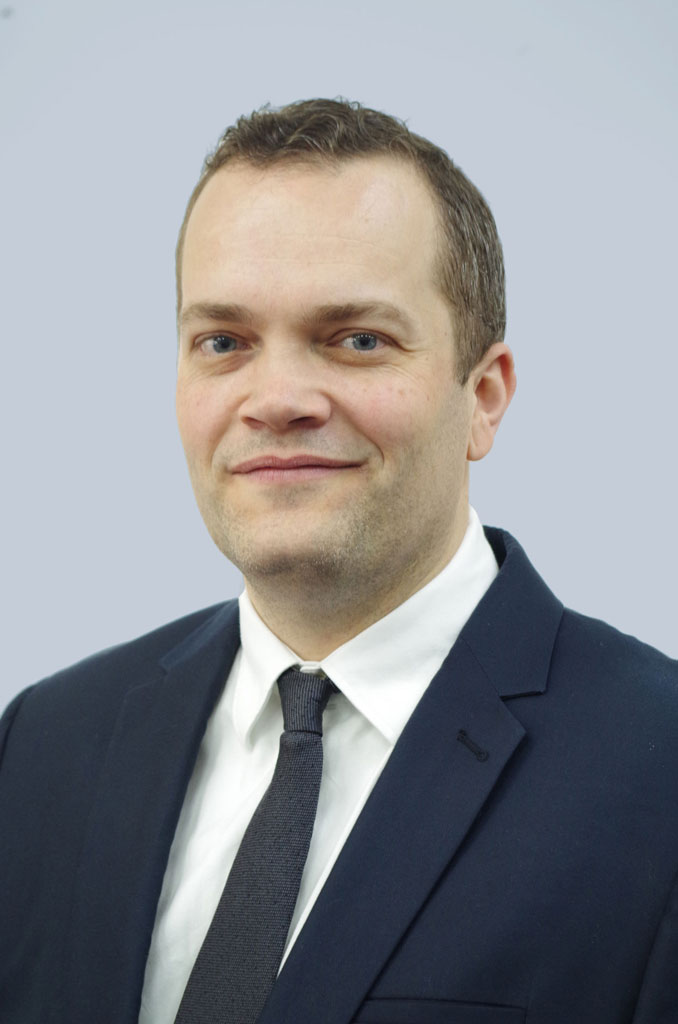
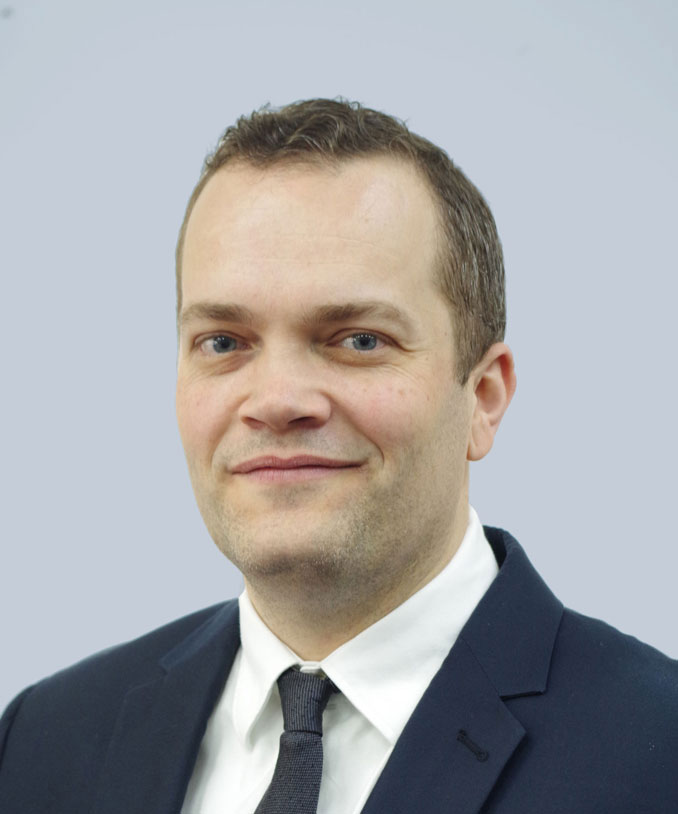
Added Bio and BulletPoint component.

diff --git a/components/Bio.tsx b/components/Bio.tsx
@@ -4,6 +4,7 @@ import styles from './Bio.module.scss'
 // components
 import Image from 'next/image'
 import AnimatedDiv from './AnimatedDiv'
+import BulletPoint from './BulletPoint'
 
 // content
 import { nick } from '@/content/about'
@@ -25,17 +26,25 @@ const Bio = () => {
 				</AnimatedDiv>
 
 				<div className={styles.info}>
-					<AnimatedDiv cssClass={styles.titleContainer}>
-						<h2>Capt. Nick Bratos</h2>
+					<div className={styles.content}>
+						<AnimatedDiv cssClass={styles.titleContainer}>
+							<h2>Capt. Nick Bratos</h2>
 
-						<hr />
+							<hr />
 
-						<p>{nick.bio}</p>
-					</AnimatedDiv>
+							<p>{nick.bio}</p>
+						</AnimatedDiv>
 
-					<AnimatedDiv cssClass={styles.qualifications}>
-						<h3>Education and Qualifications</h3>
-					</AnimatedDiv>
+						<AnimatedDiv cssClass={styles.qualifications}>
+							<h3>Education and Qualifications</h3>
+
+							<ul>
+								{nick.qualifications.map((qualification, index) => (
+									<BulletPoint key={index} text={qualification} />
+								))}
+							</ul>
+						</AnimatedDiv>
+					</div>
 				</div>
 			</div>
 		</section>

diff --git a/components/Bio.module.scss b/components/Bio.module.scss
@@ -15,9 +15,10 @@
 
 .image {
 	position: relative;
-	aspect-ratio: 0.7/1;
+	aspect-ratio: 0.83/1;
 	width: 100%;
 	border-radius: 10px;
+	overflow: hidden;
 }
 
 .border {
@@ -26,12 +27,20 @@
 	top: 0;
 	left: 0;
 	width: 90%;
-	aspect-ratio: 0.7/1;
+	aspect-ratio: 0.83/1;
 	border: 2px dashed base.$highlight;
 }
 
 .info {
 	grid-column: span 2;
+
+	display: grid;
+	grid-template-columns: repeat(8, 1fr);
+	grid-gap: 2rem;
+}
+
+.content {
+	grid-column: 2 / 9;
 	display: flex;
 	flex-direction: column;
 	gap: 2rem;
@@ -45,7 +54,21 @@
 	}
 }
 
+.qualifications {
+	h3 {
+		margin-bottom: 1.5rem;
+	}
+
+	ul {
+		columns: 2;
+		column-gap: 4rem;
+	}
+}
+
 @media screen and (max-width: 1024px) {
+	.content {
+		grid-column: span 8;
+	}
 }
 
 @media screen and (max-width: 768px) {
@@ -61,5 +84,21 @@
 		display: flex;
 		flex-direction: column;
 		gap: 2rem;
+		padding-top: 50px;
+	}
+
+	.info {
+		display: block;
+	}
+
+	.content {
+		flex-direction: column;
+		gap: 2rem;
+	}
+
+	.qualifications {
+		ul {
+			columns: 1;
+		}
 	}
 }

diff --git a/components/BulletPoint.tsx b/components/BulletPoint.tsx
@@ -1,0 +1,17 @@
+// styles
+import styles from './BulletPoint.module.scss'
+
+interface Props {
+	text: string
+}
+
+const BulletPoint: React.FC<Props> = ({ text }) => {
+	return (
+		<li className={styles.bulletPoint}>
+			<p className={styles.circleIcon}>◎</p>
+			<p className={styles.text}>{text}</p>
+		</li>
+	)
+}
+
+export default BulletPoint

diff --git a/components/BulletPoint.module.scss b/components/BulletPoint.module.scss
@@ -1,0 +1,16 @@
+@use '@/app/base';
+
+.bulletPoint {
+	display: flex;
+	align-items: flex-start;
+	gap: 0.5rem;
+	margin-bottom: 1rem;
+}
+
+.circleIcon {
+	color: base.$highlight;
+}
+
+.text {
+	font-style: italic;
+}

diff --git a/app/globals.scss b/app/globals.scss
@@ -63,6 +63,12 @@ a {
 	font-size: 1rem;
 }
 
+ul {
+	list-style: none;
+	margin: 0;
+	padding: 0;
+}
+
 .container {
 	max-width: 1080px;
 	width: 90%;
